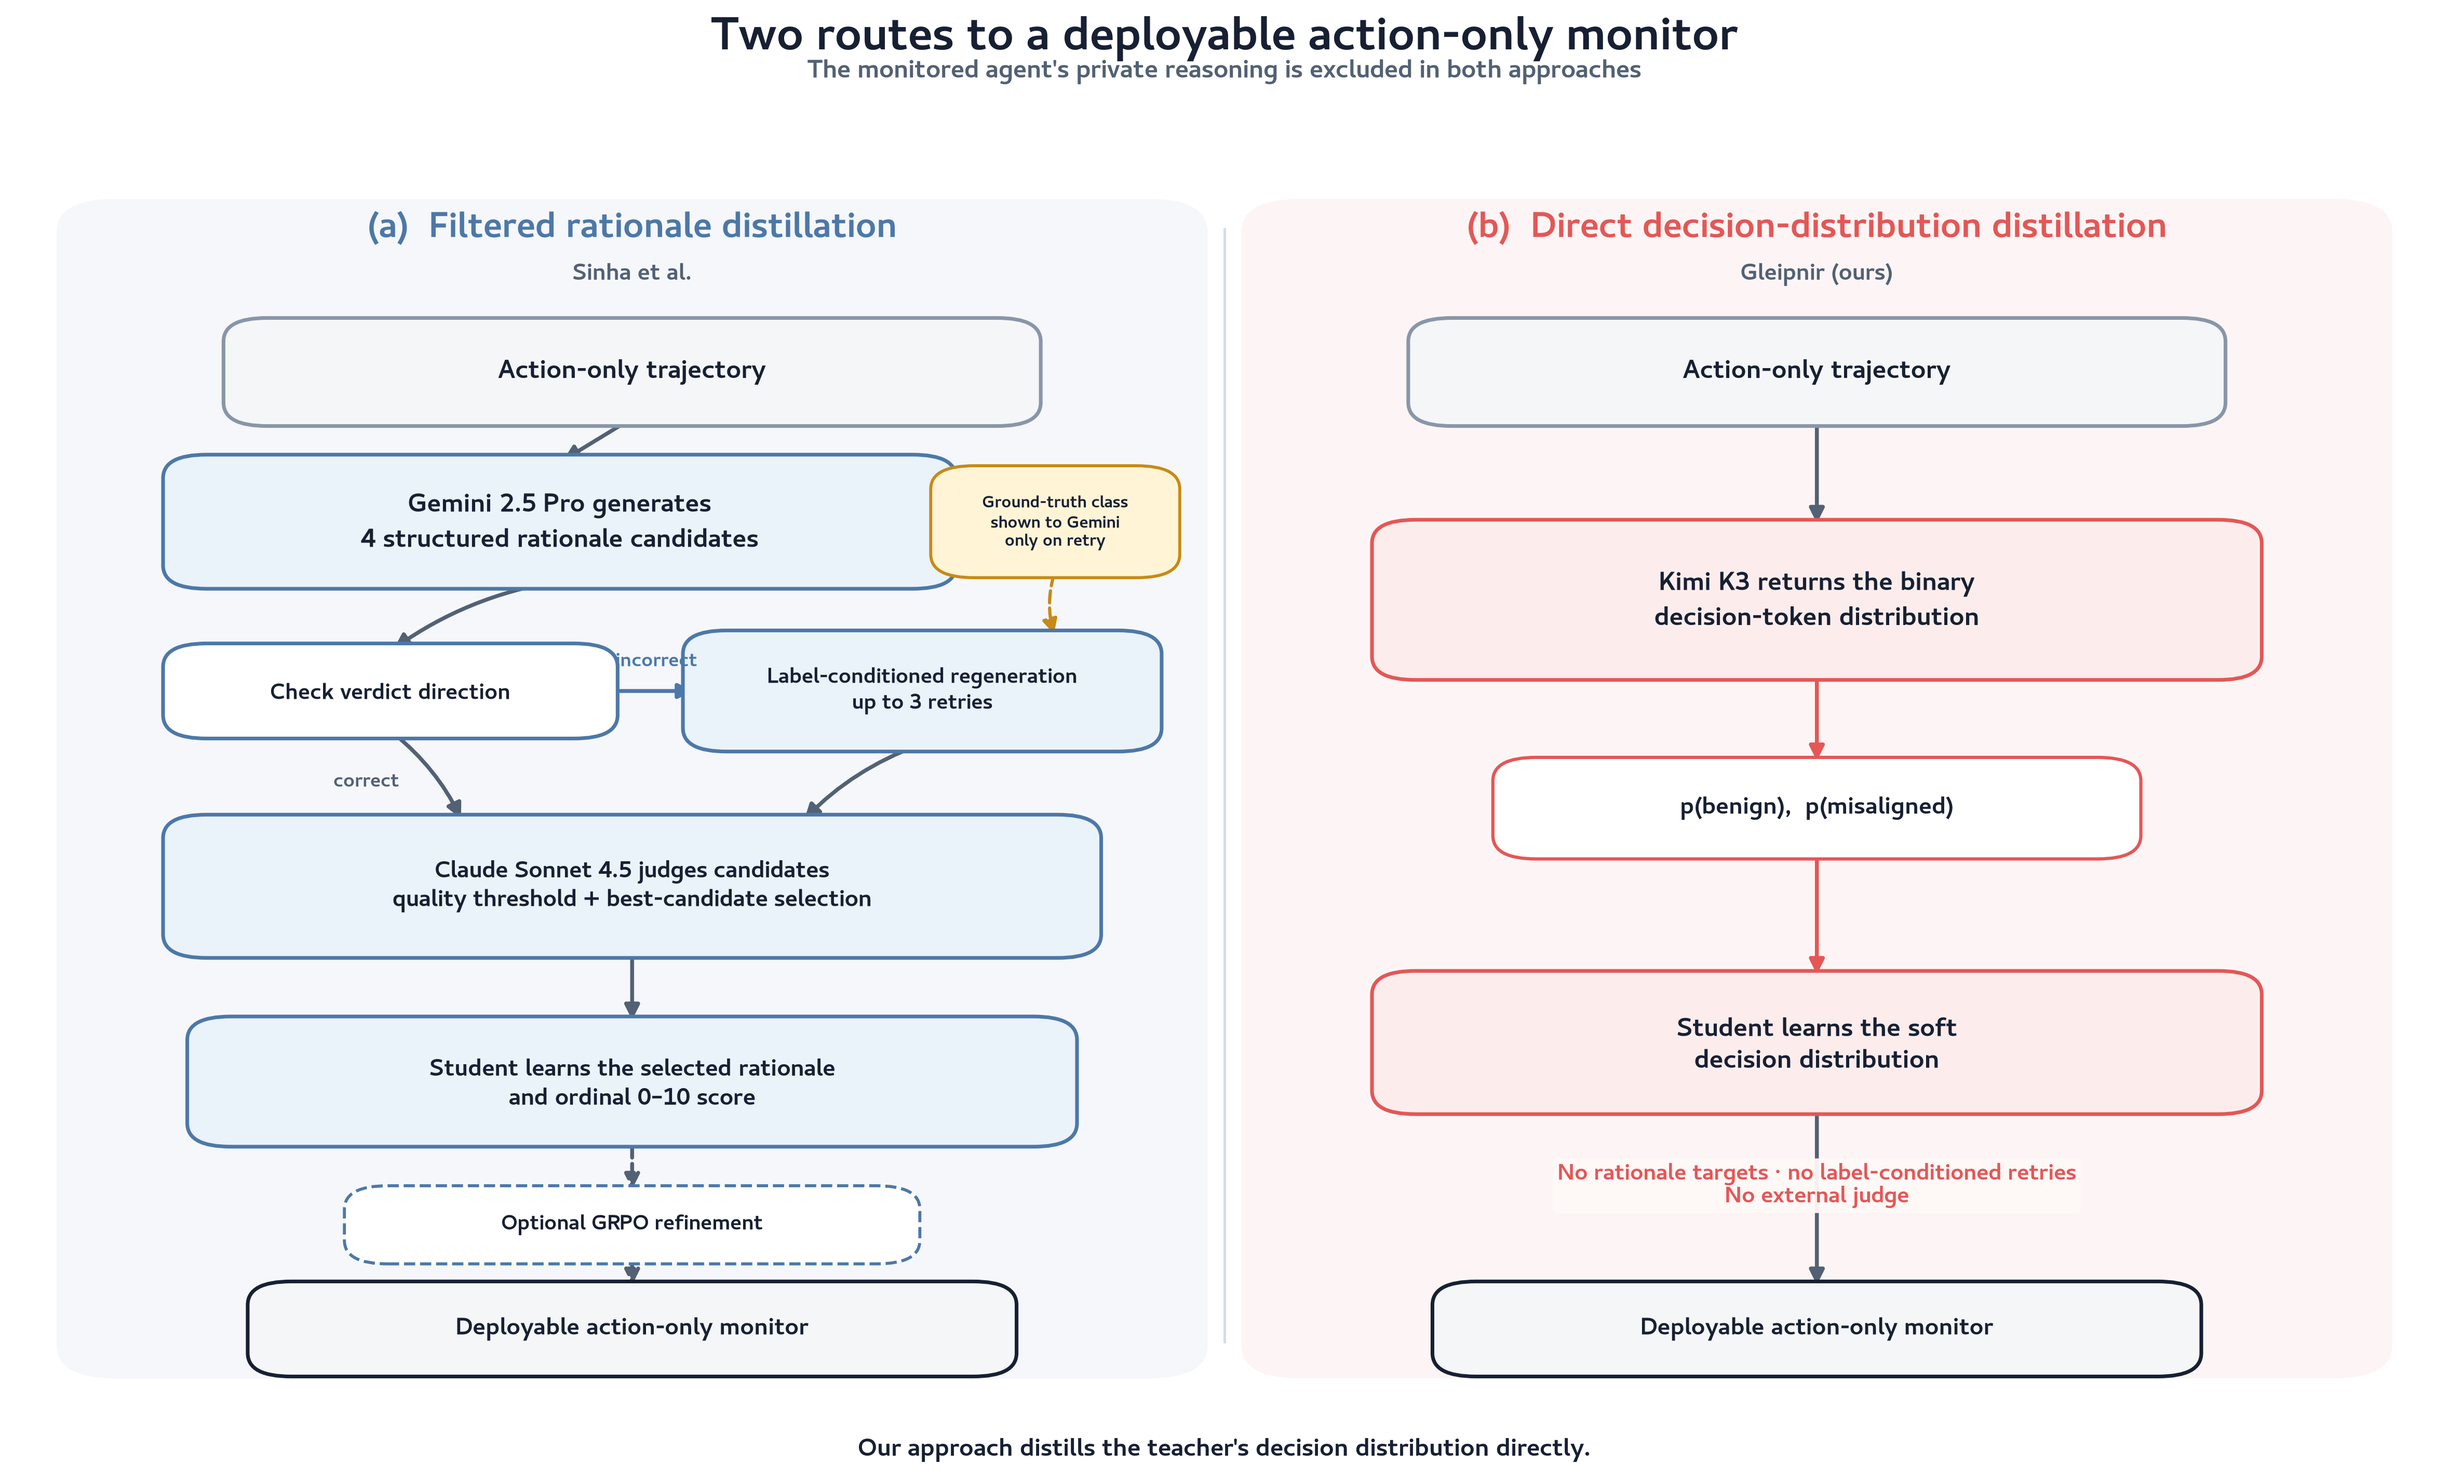
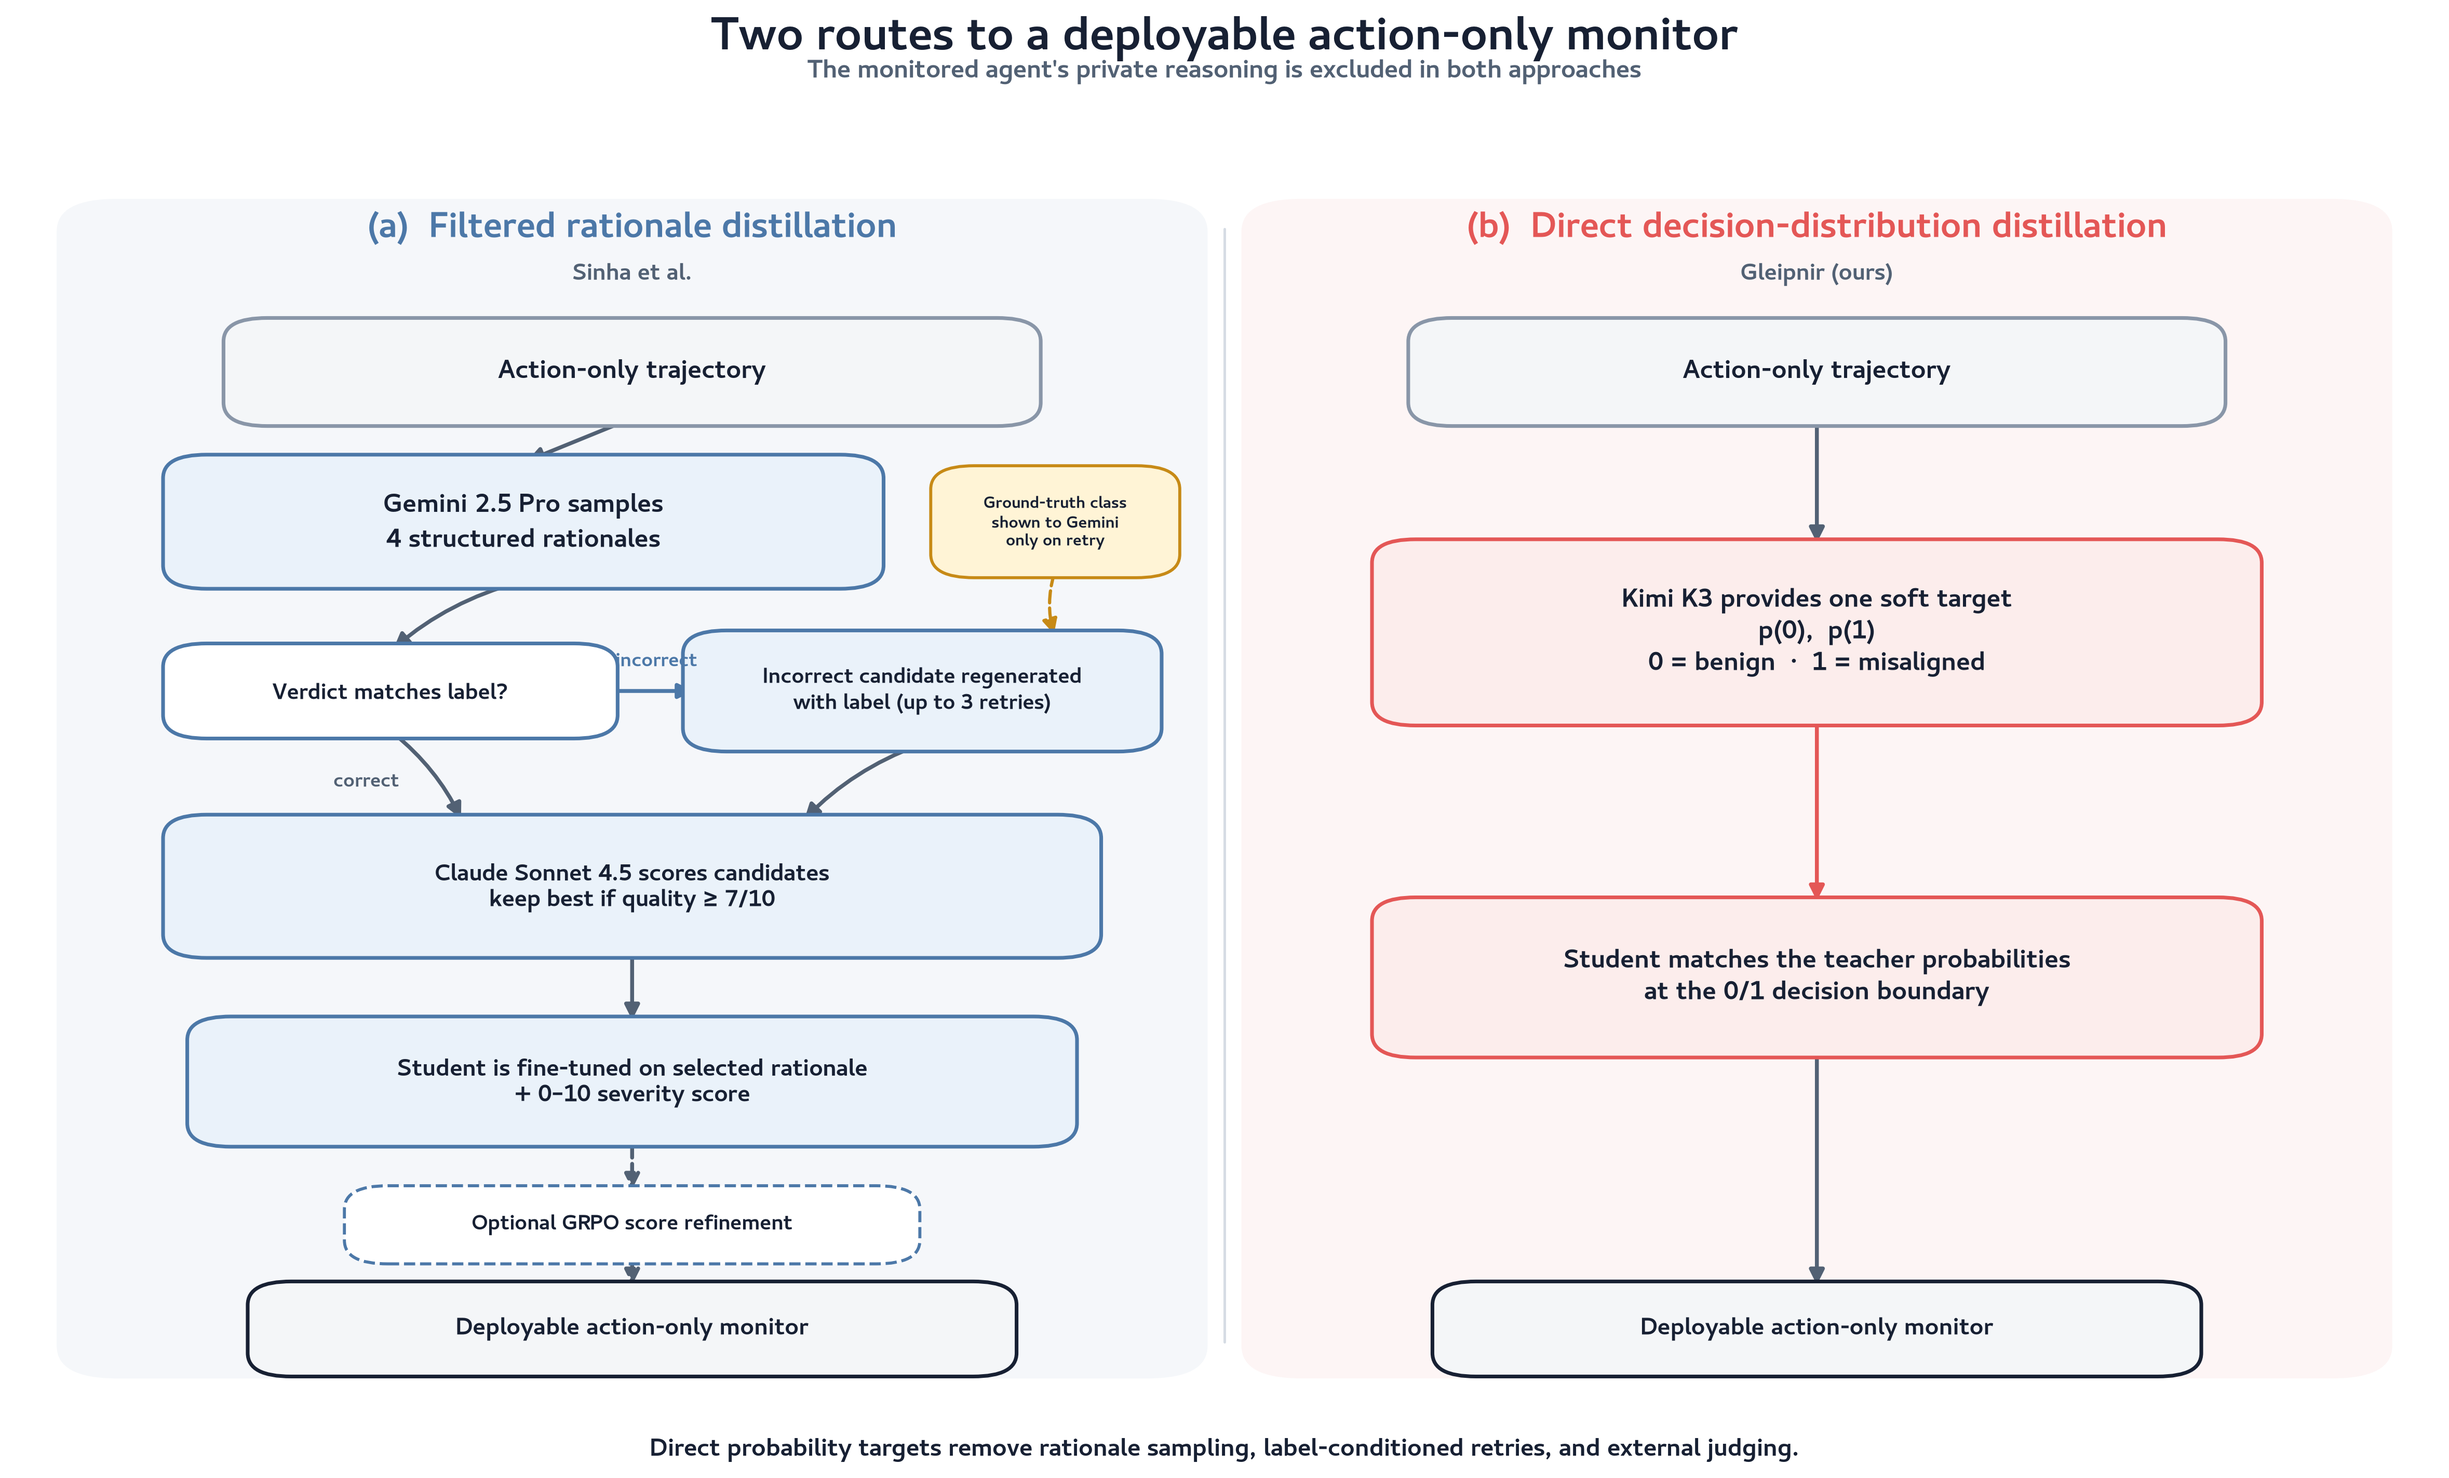
Refine distillation pipeline figure

diff --git a/scripts/plot_distillation_pipeline_comparison.py b/scripts/plot_distillation_pipeline_comparison.py
@@ -24,16 +24,16 @@ DEFAULT_OUTPUT = REPOSITORY_ROOT / "figures/distillation_pipeline_comparison.png
 DEFAULT_VECTOR_OUTPUT = REPOSITORY_ROOT / "figures/distillation_pipeline_comparison.svg"
 
 PAPER_STAGES = (
-    "Gemini 2.5 Pro generates\n4 structured rationale candidates",
-    "Check verdict direction",
-    "Label-conditioned regeneration\nup to 3 retries",
-    "Claude Sonnet 4.5 judges candidates\nquality threshold + best-candidate selection",
-    "Student learns the selected rationale\nand ordinal 0–10 score",
-    "Optional GRPO refinement",
+    "Gemini 2.5 Pro samples\n4 structured rationales",
+    "Verdict matches label?",
+    "Incorrect candidate regenerated\nwith label (up to 3 retries)",
+    "Claude Sonnet 4.5 scores candidates\nkeep best if quality ≥ 7/10",
+    "Student is fine-tuned on selected rationale\n+ 0–10 severity score",
+    "Optional GRPO score refinement",
 )
 GLEIPNIR_STAGES = (
-    "Kimi K3 returns the binary\ndecision-token distribution",
-    "Student learns the soft\ndecision distribution",
+    "Kimi K3 provides one soft target\np(0),  p(1)\n0 = benign  ·  1 = misaligned",
+    "Student matches the teacher probabilities\nat the 0/1 decision boundary",
 )
 GROUND_TRUTH_DISCLOSURE = "shown to Gemini\nonly on retry"
 
@@ -210,7 +210,7 @@ def _panel_heading(
 
 def _draw_paper_pipeline(axis: Axes) -> None:
     input_box = Box(0.255, 0.80, 0.32, 0.065)
-    teacher_box = Box(0.225, 0.685, 0.31, 0.085)
+    teacher_box = Box(0.21, 0.685, 0.28, 0.085)
     check_box = Box(0.155, 0.555, 0.17, 0.055)
     retry_box = Box(0.375, 0.555, 0.18, 0.075)
     label_box = Box(0.43, 0.685, 0.085, 0.068)
@@ -255,7 +255,7 @@ def _draw_paper_pipeline(axis: Axes) -> None:
         f"Ground-truth class\n{GROUND_TRUTH_DISCLOSURE}",
         facecolor=LABEL_FILL,
         edgecolor=LABEL_EDGE,
-        fontsize=7.7,
+        fontsize=7.5,
         linewidth=1.4,
     )
     _rounded_box(
@@ -356,9 +356,8 @@ def _draw_paper_pipeline(axis: Axes) -> None:
 
 def _draw_gleipnir_pipeline(axis: Axes) -> None:
     input_box = Box(0.745, 0.80, 0.32, 0.065)
-    teacher_box = Box(0.745, 0.625, 0.35, 0.105)
-    distribution_box = Box(0.745, 0.465, 0.25, 0.06)
-    student_box = Box(0.745, 0.285, 0.35, 0.092)
+    teacher_box = Box(0.745, 0.60, 0.35, 0.125)
+    student_box = Box(0.745, 0.335, 0.35, 0.105)
     monitor_box = Box(0.745, 0.065, 0.30, 0.055)
 
     _rounded_box(
@@ -377,15 +376,6 @@ def _draw_gleipnir_pipeline(axis: Axes) -> None:
     )
     _rounded_box(
         axis,
-        distribution_box,
-        "p(benign),  p(misaligned)",
-        facecolor="white",
-        edgecolor=GLEIPNIR_COLOR,
-        fontsize=11.1,
-        linewidth=1.5,
-    )
-    _rounded_box(
-        axis,
         student_box,
         GLEIPNIR_STAGES[1],
         facecolor=GLEIPNIR_FILL,
@@ -401,29 +391,8 @@ def _draw_gleipnir_pipeline(axis: Axes) -> None:
     )
 
     _vertical_arrow(axis, input_box, teacher_box)
-    _vertical_arrow(axis, teacher_box, distribution_box, color=GLEIPNIR_COLOR)
-    _vertical_arrow(axis, distribution_box, student_box, color=GLEIPNIR_COLOR)
+    _vertical_arrow(axis, teacher_box, student_box, color=GLEIPNIR_COLOR)
     _vertical_arrow(axis, student_box, monitor_box)
-
-    axis.text(
-        0.745,
-        0.175,
-        "No rationale targets · no label-conditioned retries\n"
-        "No external judge",
-        transform=axis.transAxes,
-        ha="center",
-        va="center",
-        fontsize=10.5,
-        fontweight="bold",
-        color=GLEIPNIR_COLOR,
-        bbox={
-            "boxstyle": "round,pad=0.2",
-            "facecolor": "#FFF9F8",
-            "edgecolor": "none",
-            "alpha": 0.95,
-        },
-        zorder=3,
-    )
 
 
 def plot_pipeline_comparison() -> Figure:
@@ -485,7 +454,8 @@ def plot_pipeline_comparison() -> Figure:
     figure.text(
         0.5,
         0.012,
-        "Our approach distills the teacher's decision distribution directly.",
+        "Direct probability targets remove rationale sampling, "
+        "label-conditioned retries, and external judging.",
         ha="center",
         va="bottom",
         fontsize=11.5,

diff --git a/tests/test_distillation_pipeline_figure.py b/tests/test_distillation_pipeline_figure.py
@@ -16,10 +16,10 @@ def _figure_text(figure: object) -> str:
 
 
 def test_pipeline_contract_keeps_ground_truth_in_corrective_retry() -> None:
-    assert "4 structured rationale candidates" in PAPER_STAGES[0]
-    assert "Label-conditioned regeneration" in PAPER_STAGES[2]
+    assert "4 structured rationales" in PAPER_STAGES[0]
+    assert "with label" in PAPER_STAGES[2]
     assert "Claude Sonnet 4.5" in PAPER_STAGES[3]
-    assert "binary" in GLEIPNIR_STAGES[0]
+    assert "p(0),  p(1)" in GLEIPNIR_STAGES[0]
     assert GROUND_TRUTH_DISCLOSURE == "shown to Gemini\nonly on retry"
     assert len(PAPER_STAGES) > len(GLEIPNIR_STAGES)
 
@@ -31,7 +31,7 @@ def test_pipeline_figure_contains_intended_comparison_without_epoch_details() ->
     assert "Filtered rationale distillation" in text
     assert "Direct decision-distribution distillation" in text
     assert "Ground-truth class\nshown to Gemini\nonly on retry" in text
-    assert "p(benign),  p(misaligned)" in text
+    assert "0 = benign  ·  1 = misaligned" in text
     assert "private reasoning is excluded" in text
     assert "epoch" not in text.lower()
     assert "learning rate" not in text.lower()
